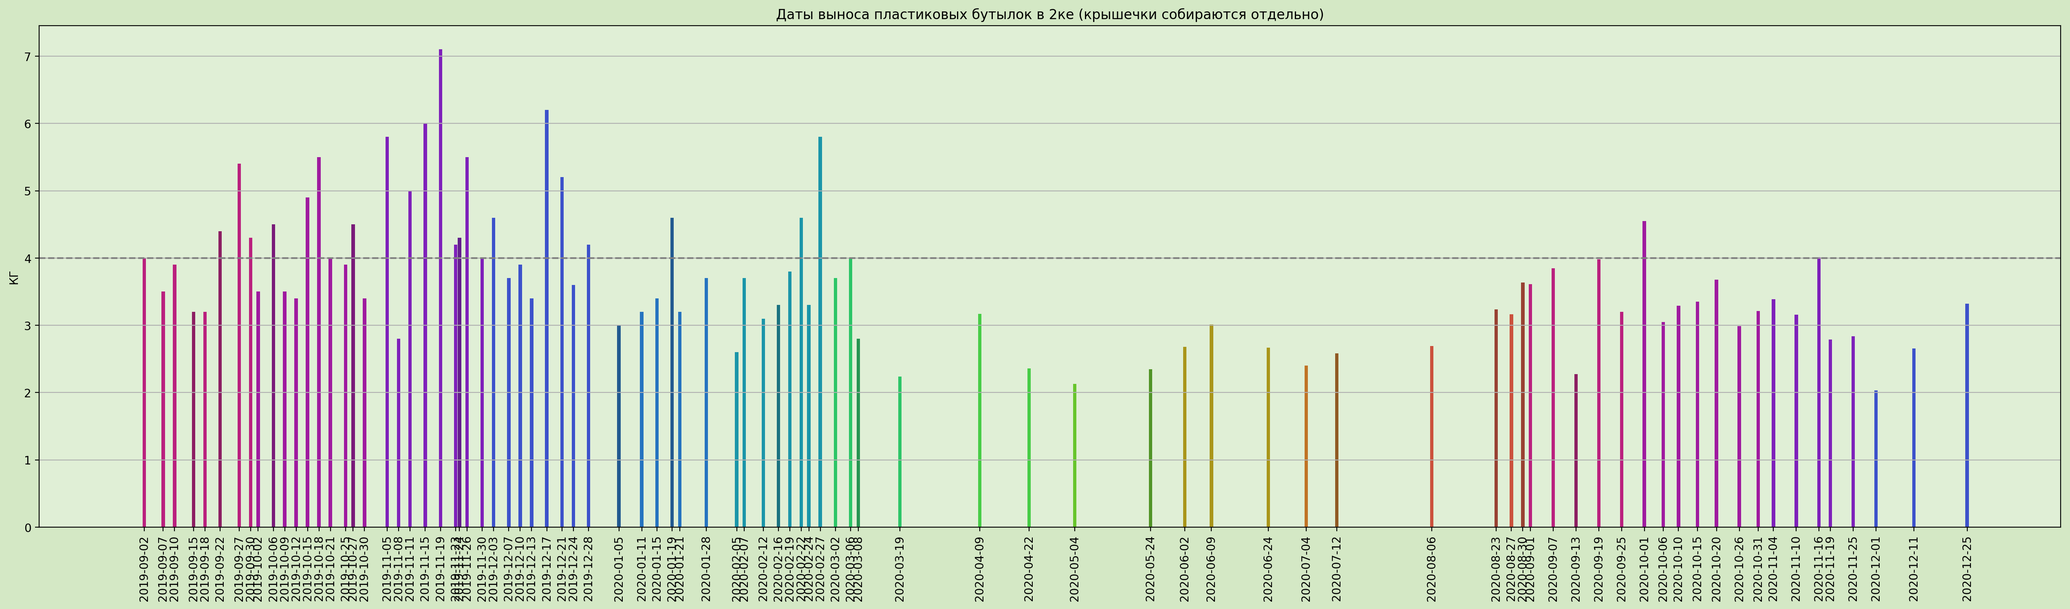
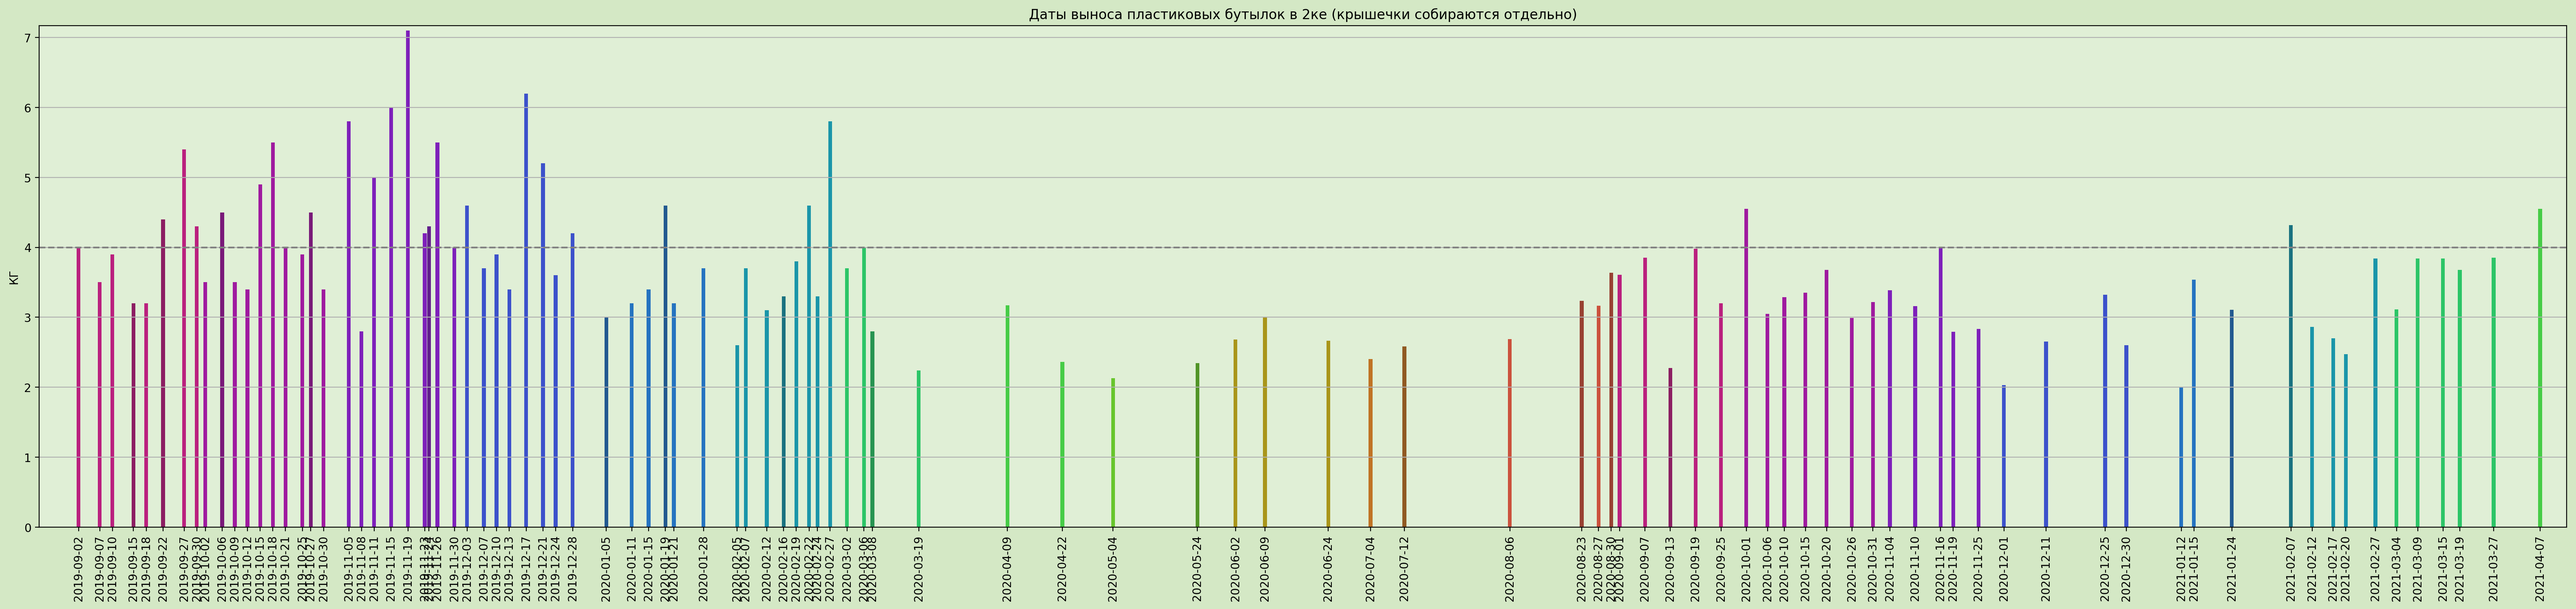
update stats

Changed region(s): [[0.0, 0.0307, 1.0, 1.0], [0.3733, 0.0, 0.6222, 0.0307]]

diff --git a/stats/main.py b/stats/main.py
@@ -71,7 +71,7 @@ with open('report.txt', 'wb') as f:
 # now draw plots
 from matplotlib import pyplot as plt
 
-figsize = (32, 8) # plot size
+figsize = (40, 8) # plot size
 dpi = 200 # output image size
 
 outer_bg = "#d4e8c5"
@@ -89,9 +89,11 @@ season_sameness = 0.25 # from 0.0 to 1.0
 palette = [color((i // 2 + 1) - season_sameness * ((i // 2 + 1) % 3 - 1), i % 2) for i in range(12 * 2)]
 colors = [palette[int(wd == 6) + 2 * (d[1] - 1)] for wd, d in zip(full_w, full_d)]
 
+print('Rendering images 1/3...', flush=True)
 plt.figure(figsize=figsize)
 plt.axes().set_facecolor(inner_bg)
 plt.title('Статистика сбора пластиковых бутылок в 2ке (крышечки собираются отдельно)')
+plt.margins(0.01)
 plt.axhline(1, color='gray', linestyle='--')
 plt.bar(full_d_str, full_k, width=0.9, color=colors)
 plt.xticks(full_d_str[::3], rotation=85)
@@ -100,9 +102,11 @@ plt.grid(axis='y', which='both')
 plt.savefig('bottle-collection-stat-2ka.png', dpi=dpi, bbox_inches='tight', facecolor=outer_bg)
 #plt.show()
 
+print('Rendering images 2/3...', flush=True)
 plt.figure(figsize=figsize)
 plt.axes().set_facecolor(inner_bg)
 plt.title('Даты выноса пластиковых бутылок в 2ке (крышечки собираются отдельно)')
+plt.margins(0.01)
 plt.axhline(4, color='gray', linestyle='--')
 plt.bar(full_d_str, full_a, width=0.9, color=colors)
 plt.xticks(sparse_dates_str, rotation=90)
@@ -112,6 +116,7 @@ plt.savefig('bottle-collection-days-2ka.png', dpi=dpi, bbox_inches='tight', face
 #plt.show()
 
 # smoothing experiments
+print('Rendering images 3/3...', flush=True)
 gamma = 0.9
 smooth_k = full_k[0]
 full_k_smooth = [smooth_k]
@@ -122,6 +127,7 @@ for k in full_k[1:]:
 plt.figure(figsize=figsize)
 plt.axes().set_facecolor(inner_bg)
 plt.title('Статистика сбора пластиковых бутылок в 2ке (крышечки собираются отдельно)')
+plt.margins(0.01)
 plt.axhline(0, color='k', linestyle='-')
 plt.axhline(1, color='gray', linestyle='--')
 plt.plot(full_d_str, full_k, label='Точное')
